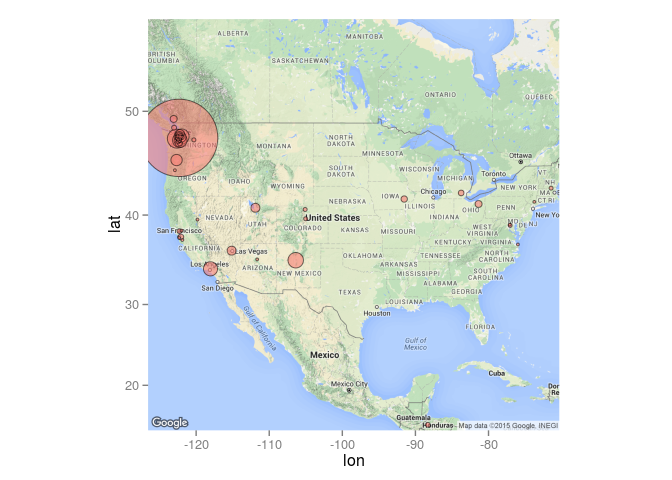
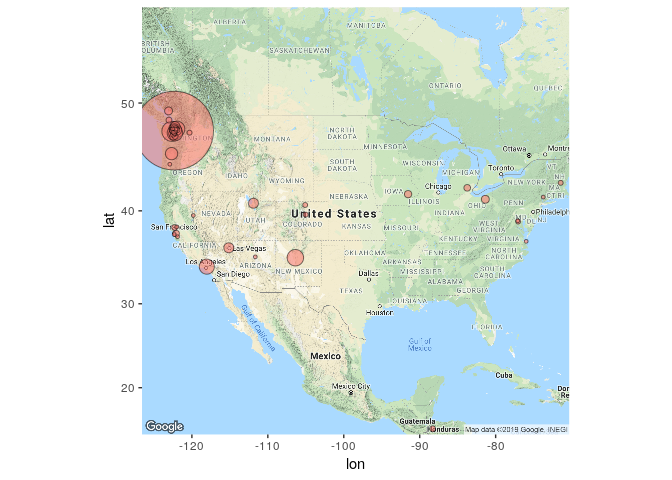
Updated for use of Google API key.

Changed region(s): [[0.1562, 0.0, 0.875, 0.9688], [0.5938, 0.6875, 0.6562, 0.75]]

diff --git a/map_of_logins_by_city.md b/map_of_logins_by_city.md
@@ -1,6 +1,15 @@
-# Map of Server Logins
-Brian High  
-12/03/2015  
+---
+title: "Map of Server Logins"
+author: "Brian High"
+date: "12/03/2015"
+output:
+  html_document:
+    keep_md: yes
+  pdf_document:
+    fig_caption: no
+    fig_height: 6
+    fig_width: 9
+---
 
 ## Server logins
 
@@ -62,18 +71,18 @@ cities[,1:4] %>% head(10) %>% pandoc.table(style='rmarkdown')
 
 
 
-|      city      |  region  |  country  |  logins  |
-|:--------------:|:--------:|:---------:|:--------:|
-|    Seattle     |    WA    |    US     |   746    |
-|  Port Orchard  |    WA    |    US     |    45    |
-|  Cedar Crest   |    NM    |    US     |    30    |
-|     Duvall     |    WA    |    US     |    28    |
-|      Kent      |    WA    |    US     |    26    |
-|    Arcadia     |    CA    |    US     |    25    |
-|    Portland    |    OR    |    US     |    16    |
-|    Redmond     |    WA    |    US     |    14    |
-|   Las Vegas    |    NV    |    US     |    10    |
-| Salt Lake City |    UT    |    US     |    10    |
+|      city      | region | country | logins |
+|:--------------:|:------:|:-------:|:------:|
+|    Seattle     |   WA   |   US    |  746   |
+|  Port Orchard  |   WA   |   US    |   45   |
+|  Cedar Crest   |   NM   |   US    |   30   |
+|     Duvall     |   WA   |   US    |   28   |
+|      Kent      |   WA   |   US    |   26   |
+|    Arcadia     |   CA   |   US    |   25   |
+|    Portland    |   OR   |   US    |   16   |
+|    Redmond     |   WA   |   US    |   14   |
+|   Las Vegas    |   NV   |   US    |   10   |
+| Salt Lake City |   UT   |   US    |   10   |
 
 Most logins are from Seattle, but what is the percentage of Seattle logins?
 
@@ -102,12 +111,12 @@ countries %>% head(10) %>% pandoc.table(style='rmarkdown')
 
 
 
-|  country  |  logins  |
-|:---------:|:--------:|
-|    US     |   1051   |
-|    CA     |    6     |
-|    HN     |    3     |
-|    ZA     |    1     |
+| country | logins |
+|:-------:|:------:|
+|   US    |  1051  |
+|   CA    |   6    |
+|   HN    |   3    |
+|   ZA    |   1    |
 
 Find percent of logins from the US.
 
@@ -133,6 +142,8 @@ We can center the map on the center of the US (Kansas) and zoom so that we
 pick up some of the locations in the rest of North America and Central America.
 
 
+
+
 ```r
 google_basemap <- get_map(location = "Kansas", zoom = 4)
 
@@ -143,7 +154,7 @@ ggmap(google_basemap) + geom_point(data = cities,
     guides(fill=FALSE, alpha=FALSE, size=FALSE)
 ```
 
-![](map_of_logins_by_city_files/figure-html/make_google_map-1.png) 
+![](map_of_logins_by_city_files/figure-html/make_google_map-1.png)<!-- -->
 
 ## Make a density map
 
@@ -167,7 +178,7 @@ qmplot(longitude, latitude, data = psarea, maptype = "toner-lite",
        geom = "density2d", color = I("red"))
 ```
 
-![](map_of_logins_by_city_files/figure-html/puget_sound_density_map-1.png) 
+![](map_of_logins_by_city_files/figure-html/puget_sound_density_map-1.png)<!-- -->
 
 ## A density map with more color
 
@@ -196,7 +207,7 @@ ggmap(ps_basemap, extent = "device") +
     scale_alpha(range = c(0, 0.3), guide = FALSE)
 ```
 
-![](map_of_logins_by_city_files/figure-html/puget_sound_color_density_map-1.png) 
+![](map_of_logins_by_city_files/figure-html/puget_sound_color_density_map-1.png)<!-- -->
 
 ## Sources
 
